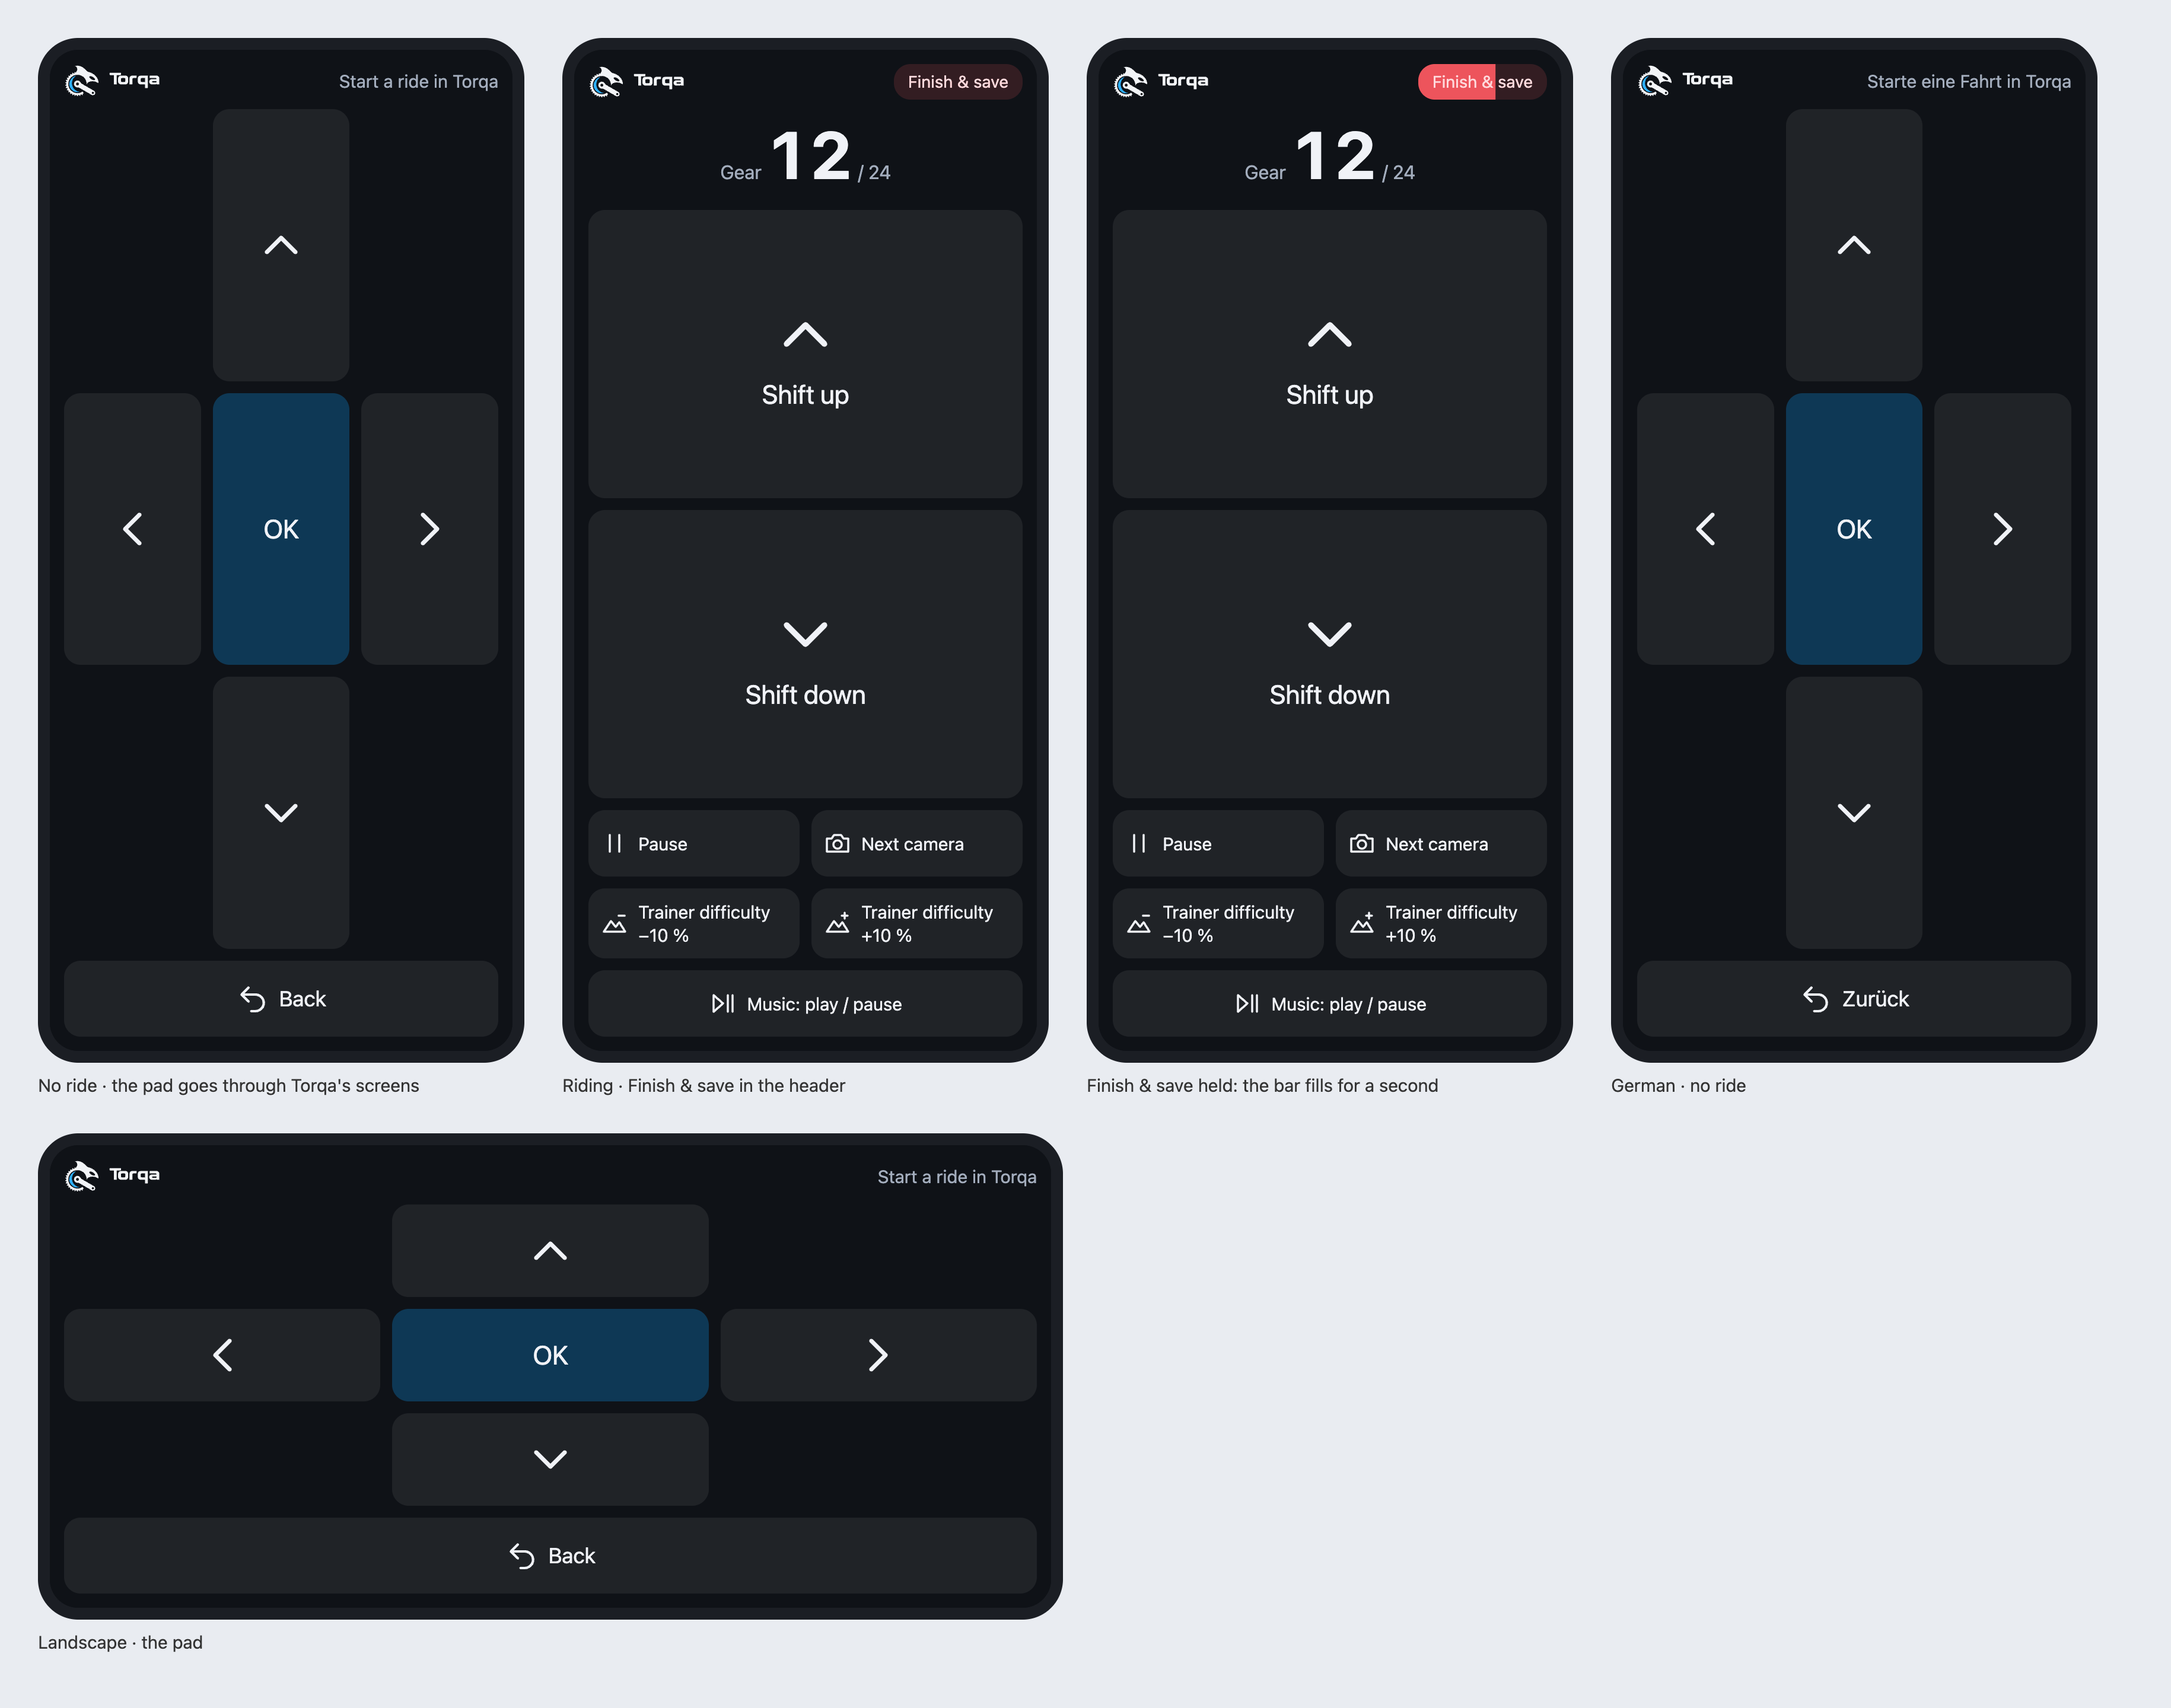
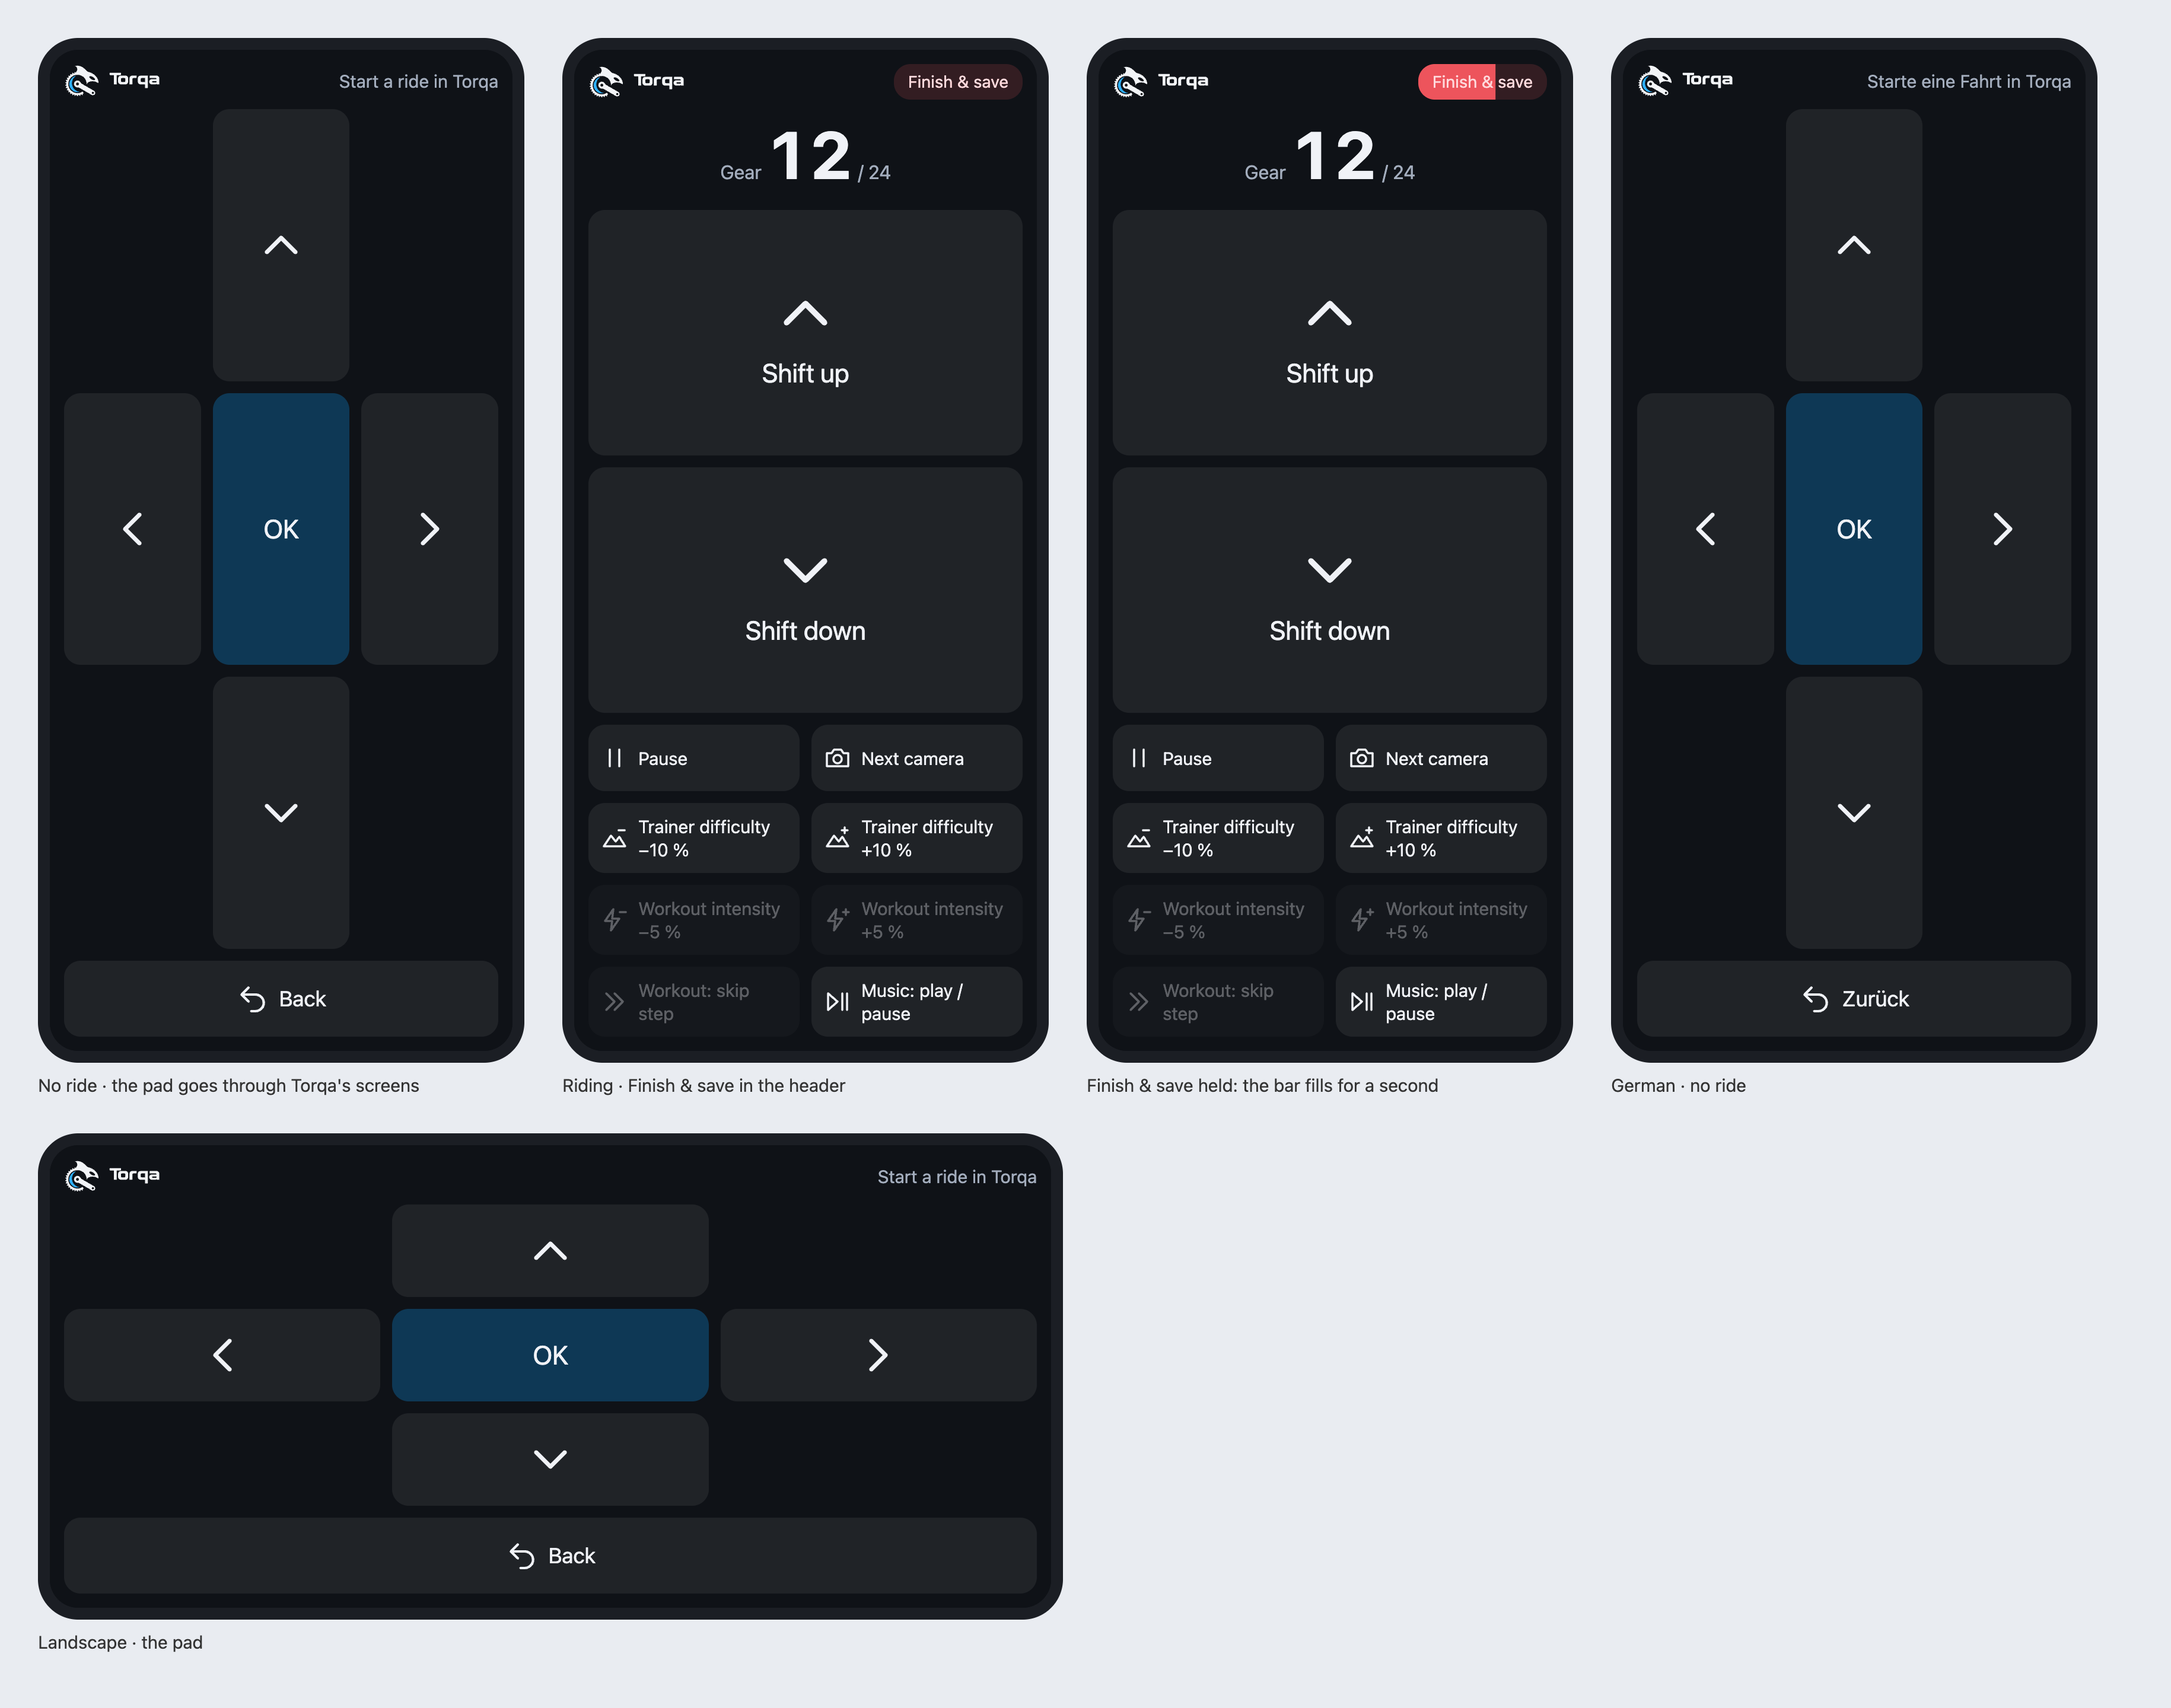
fix: every remote button shows at all times, dimmed where it does nothing
Review of #228's follow-up: a button hidden on a course (the workout's
intensity and skip step) or in a workout (the trainer difficulty) made
the page's layout change between rides. Every button the rider gave an
action now stays in its place; one that does nothing in the ride under
way is dimmed. Only a slot given Finish & save stays off the page, as
finishing is held from the header.

R87 says so (R86 points to it), the wiki too; the page's previews are
rendered again.

diff --git a/core/torqa-remote/src/page.html b/core/torqa-remote/src/page.html
@@ -37,6 +37,8 @@ button {
 }
 button.pressed { background: var(--accent); }
 body.idle button { opacity: 0.45; }
+/* Stays in its place, so the layout never moves, but does nothing in the ride under way. */
+button.inert { opacity: 0.35; }
 button svg {
   fill: none; stroke: currentColor; stroke-width: 1.8; stroke-linecap: round;
   stroke-linejoin: round; width: 24px; height: 24px; flex: none;
@@ -218,8 +220,6 @@ let shown = "";
 // Whether `action` does anything in the ride as it is: with the bike's own gears there is
 // nothing to shift, the trainer difficulty is a course's, intensity and steps a workout's.
 function applies(action) {
-  // Held from the header instead: a tap must never end the ride.
-  if (action === "finish_ride") return false;
   if (action.startsWith("shift_")) return !state.riding || state.gear !== null;
   if (action.startsWith("difficulty_")) return !state.workout;
   if (action.startsWith("intensity_") || action === "skip_step") return state.workout;
@@ -284,7 +284,9 @@ function show() {
   }
   for (const button of document.querySelectorAll("button[data-action]")) {
     const action = button.dataset.action;
-    button.hidden = !applies(action);
+    // Held from the header instead: a tap must never end the ride.
+    button.hidden = action === "finish_ride";
+    button.classList.toggle("inert", !applies(action));
     const shownAs = action === "pause" && state.paused ? "resume" : action;
     button.querySelector("svg").innerHTML = ICONS[shownAs] ?? "";
     button.querySelector("span").textContent = word(shownAs);

diff --git a/docs/REQUIREMENTS.md b/docs/REQUIREMENTS.md
@@ -151,8 +151,8 @@ Sharing is file-based for now; a built-in online catalog may follow later.
 | R57 | Refines R55 (2026-10-06): the overlay stays on top of **normal (windowed) apps only**; showing it over full-screen apps would need native macOS window code (a new dependency and unsafe code) and is not done. The overlay is entered with a button during **any ride or workout** (a course ride goes on following its gradient, its world hidden) or by ticking **"start as overlay"** when starting a workout. |
 | R58 | Extends R38 (2026-10-06): a **Workouts** tab on the start page, right after Courses. Workouts (R56, later R21) are started there, either on their own (a flat road, the HUD only) or **on a course in the 3D world** (the trainer holds the workout's power while the world goes by). |
 | R59 | Supersedes R7's shift inputs (2026-10-06): the virtual gears are shifted from the **keyboard** and from **Shimano Di2** directly over Bluetooth — the buttons the rider assigns to D-Fly channels in E-TUBE shift up and down. Each channel's press, hold and double press can be given an action instead (#139): shift one or two gears, next camera, overlay on/off, or the music (play/pause, next, previous). No dependency on paid bridge apps (BikeControl needs a subscription on macOS and Android), so no OpenBikeControl-through-BikeControl; the Zwift Click (encrypted, the v2 unlocked daily in Zwift) is not supported. |
-| R86 | Extends R59 and supersedes R25's phone companion app (2026-10-18, #228): a **remote** in the browser of a phone or tablet, with no app to install. Turned on under Devices, Torqa serves a page on the **local network** at a fixed port (8571 until the rider chooses another), which a phone, tablet or second computer in the same network opens by scanning the **QR code** Torqa shows or by typing its address. The page has **ten buttons**, two big ones above a grid of eight, under a small Torqa logo. Each does what the **rider gave it**, as a shifter's buttons do (#139, R66, R84): kept per rider with their shifters' buttons and set behind a pen beside the remote's row, out of the box the big ones **shift** up and down and the others **pause and resume** the ride, switch the **camera**, make the **trainer difficulty** or the workout's **intensity** harder or easier, **skip** a workout's step and play or pause the **music**. A press acts when the finger lands; there are no holds. A button whose action does not apply to the ride under way is hidden (the difficulty in a workout, the intensity and steps outside one, shifting without virtual gears); a button left alone in its row of the grid spans the row, and a row with none left closes up. The page changes with the rider's assignment at once. It shows the **gear** and whether the ride is paused, in the rider's language. Nothing goes to the internet (R3). It is **off until turned on**, and on, off, its port and its address are this computer's (R78). Every address carries a **secret token** without which nothing answers, so neither others on the network nor websites in the rider's browser can press; a **new address** locks out the phones and tablets paired before, and their page says so. Devices and the ride tell when a phone or tablet has the page open and when it is gone (closed, or not heard from for 25 s, e.g. its screen locked). Over plain http the browser cannot keep the screen on, so the page asks the rider to turn its auto-lock off. |
-| R87 | Extends R86 (2026-10-18, #228): between rides the remote is a **TV remote**. Without a ride under way, its page shows a pad with **arrows**, **OK** and **Back** instead of the ride's buttons; they go through Torqa's screens as the keyboard's arrows, Enter and Escape do, so a course or a workout is chosen and **started from the phone or tablet**. The first arrow on a screen goes to its main control (a course's Ride, a workout's Start), an arrow held repeats, OK presses what has the focus, and Back closes a dialog or goes back a screen (a course to the gallery, the summary to the start page), as Escape now does too. During a ride its header has **Finish & save**, **held for a second** (a tap only says to hold it), which ends and saves the ride as the ride settings' button does; a shifter's button can be given the same action (#139), the remote's own buttons cannot. What has the **focus** shows an accent **ring** when the keyboard or the remote reached it, not after a click, and the gallery's course cards can be reached and opened that way. |
+| R86 | Extends R59 and supersedes R25's phone companion app (2026-10-18, #228): a **remote** in the browser of a phone or tablet, with no app to install. Turned on under Devices, Torqa serves a page on the **local network** at a fixed port (8571 until the rider chooses another), which a phone, tablet or second computer in the same network opens by scanning the **QR code** Torqa shows or by typing its address. The page has **ten buttons**, two big ones above a grid of eight, under a small Torqa logo. Each does what the **rider gave it**, as a shifter's buttons do (#139, R66, R84): kept per rider with their shifters' buttons and set behind a pen beside the remote's row, out of the box the big ones **shift** up and down and the others **pause and resume** the ride, switch the **camera**, make the **trainer difficulty** or the workout's **intensity** harder or easier, **skip** a workout's step and play or pause the **music**. A press acts when the finger lands; there are no holds. A button whose action does not apply to the ride under way is hidden (the difficulty in a workout, the intensity and steps outside one, shifting without virtual gears); a button left alone in its row of the grid spans the row, and a row with none left closes up. The page changes with the rider's assignment at once. It shows the **gear** and whether the ride is paused, in the rider's language. Nothing goes to the internet (R3). It is **off until turned on**, and on, off, its port and its address are this computer's (R78). Every address carries a **secret token** without which nothing answers, so neither others on the network nor websites in the rider's browser can press; a **new address** locks out the phones and tablets paired before, and their page says so. Devices and the ride tell when a phone or tablet has the page open and when it is gone (closed, or not heard from for 25 s, e.g. its screen locked). Over plain http the browser cannot keep the screen on, so the page asks the rider to turn its auto-lock off. *(Every button shown at all times: R87.)* |
+| R87 | Extends R86 (2026-10-18, #228): between rides the remote is a **TV remote**. Without a ride under way, its page shows a pad with **arrows**, **OK** and **Back** instead of the ride's buttons; they go through Torqa's screens as the keyboard's arrows, Enter and Escape do, so a course or a workout is chosen and **started from the phone or tablet**. The first arrow on a screen goes to its main control (a course's Ride, a workout's Start), an arrow held repeats, OK presses what has the focus, and Back closes a dialog or goes back a screen (a course to the gallery, the summary to the start page), as Escape now does too. During a ride its header has **Finish & save**, **held for a second** (a tap only says to hold it), which ends and saves the ride as the ride settings' button does; a shifter's button can be given the same action (#139), the remote's own buttons cannot. What has the **focus** shows an accent **ring** when the keyboard or the remote reached it, not after a click, and the gallery's course cards can be reached and opened that way. Superseding R86's hiding, **every button the rider gave an action shows at all times**, so the page's layout never changes between a course and a workout; one that does nothing in the ride under way (the difficulty in a workout, the intensity and steps outside one, shifting without virtual gears) is dimmed in its place. |
 
 ## Uploads
 
